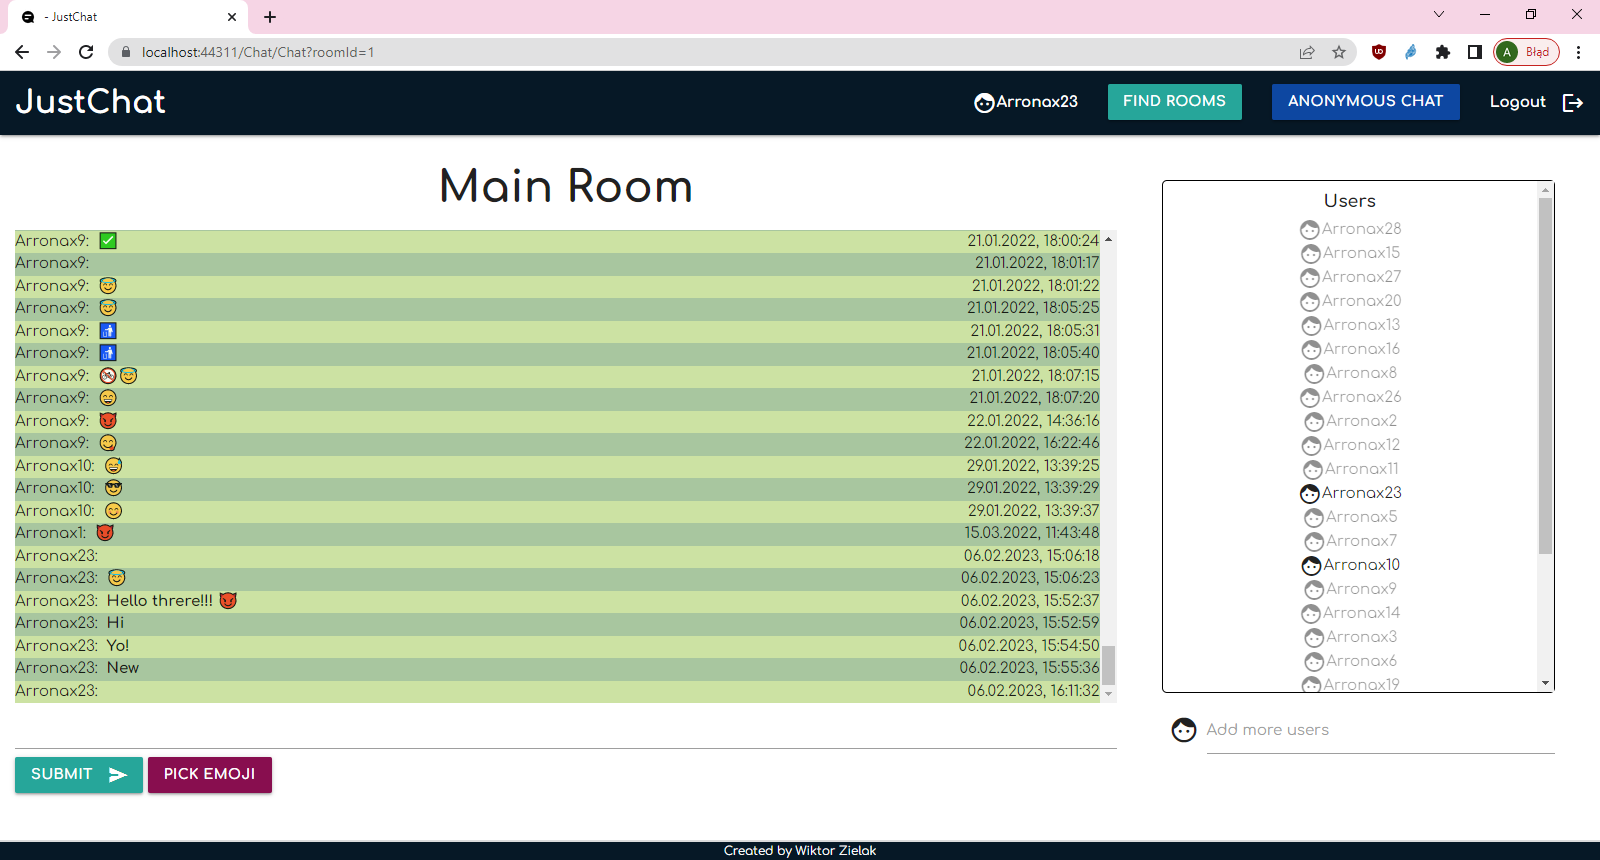
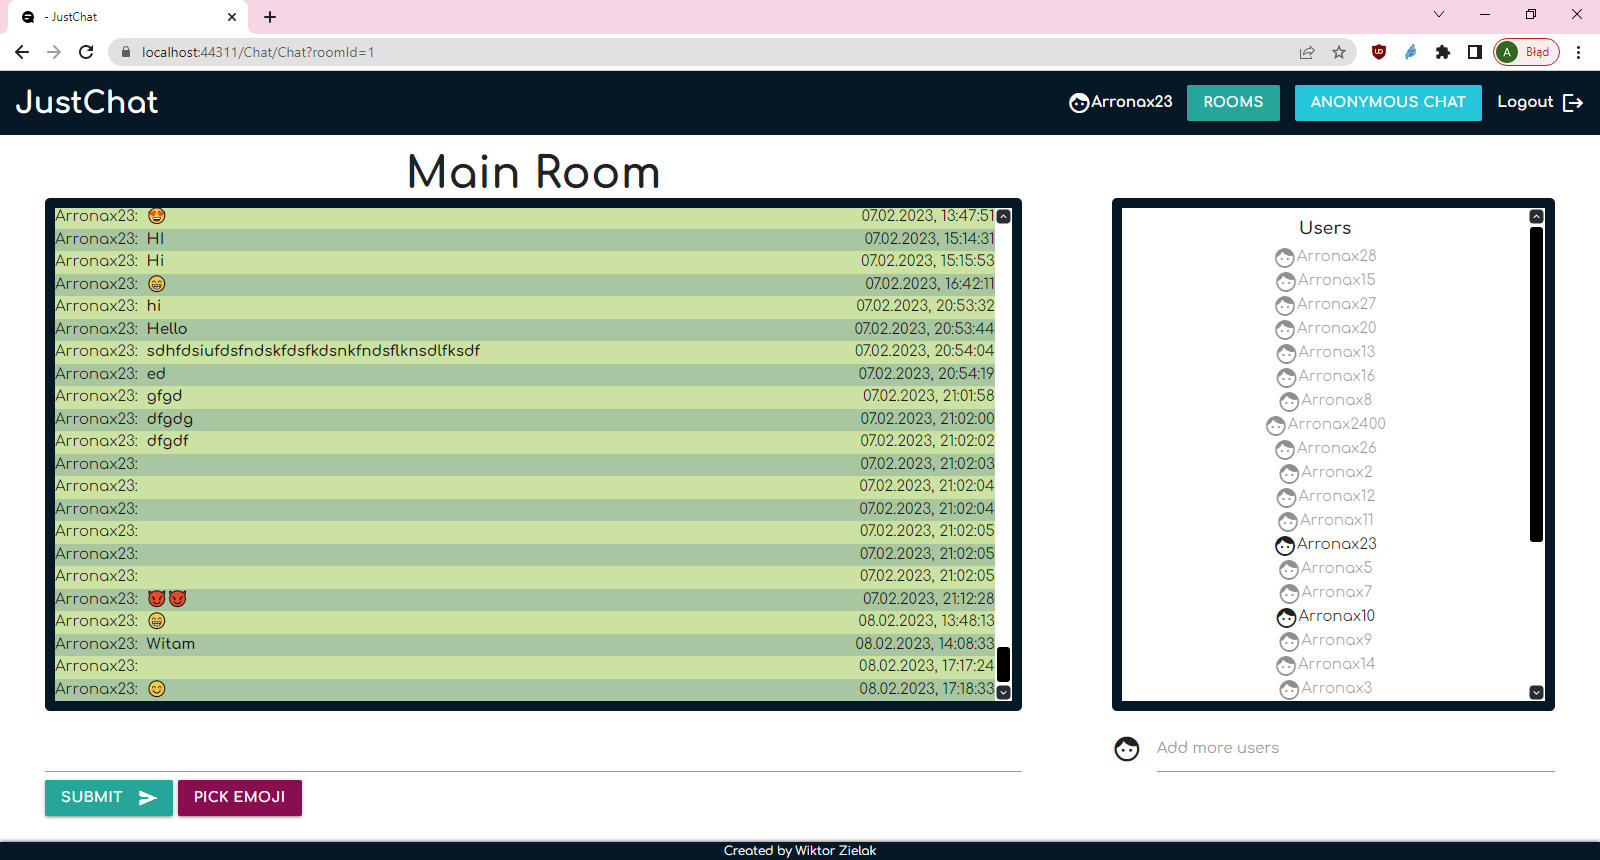
responsive navigation is working

diff --git a/JustChat/wwwroot/css/site.css b/JustChat/wwwroot/css/site.css
@@ -1,5 +1,6 @@
 body {
-    height: 100vh;
+    min-height: 100vh;
+    position: relative;
 }
 
 main {
@@ -51,6 +52,7 @@ p, span, .room-users {
 
 .auth-btn::after {
     position: absolute;
+    left: 0;
     top: 26px;
     content: "";
     background: white;
@@ -80,6 +82,11 @@ p, span, .room-users {
     justify-content: space-between
 }
 
+.hamburger {
+    display: none;
+}
+
+
 .nav .nav-list {
     display: flex;
     gap: 1rem;
@@ -100,14 +107,14 @@ p, span, .room-users {
 }
 
 .page-address {
+    position: absolute;
+    bottom: 0;
     background: #061826;
     font-family: 'Comfortaa', cursive;
     color: white;
     font-style: normal;
     font-size: .8rem;
     font-weight: 400;
-    position: absolute;
-    bottom: 0;
     width: 100%;
     height: 18px;
     text-align: center;
@@ -133,7 +140,8 @@ p, span, .room-users {
     margin: 0;
     height: auto;
     align-self: center;
-    margin: 0 3rem;
+    /*margin: 0 3rem;*/
+    margin: 1rem 3rem 0 3rem;
 }
 
 .chat-container {
@@ -162,13 +170,12 @@ p, span, .room-users {
 
 .chat-form {
     grid-area: three;
-    margin-right: 50px;
-    margin: 0 3rem;
+    margin: 1rem 3rem 0 3rem;
 }
 
 .invite-users {
     grid-area: four;
-    margin: 0 3rem;
+    margin: 1rem 3rem 0 3rem;
 }
 
 .room-users {
@@ -300,4 +307,123 @@ a.disabled {
     background: url('/arrow-down.svg');
     background-repeat: no-repeat;
     background-size: 100%;
+}
+
+.auth-btn-span-container{
+    display: inline-block;
+}
+
+.desktop-hide {
+    display: none;
+}
+
+@media (max-width: 730px) {
+    .btn {
+        height: 32.4px;
+    }
+    .rooms-mobile-nav {
+        display: flex;
+        flex-direction: column;
+        align-items: center;
+        gap: 10px;
+    }
+    .rooms-mobile-nav h4 {
+        font-size: 14px;
+        font-weight: 700;
+        color: white;
+        margin: 0;
+    }
+
+    .mobile-hide {
+        display: none;
+    }
+
+    .desktop-hide {
+        display: block;
+    }
+
+    .nav {
+        flex-direction: column;
+        height: auto;
+    }
+
+    .nav .nav-list {
+        flex-direction: column;
+        gap: unset;
+        background: #061826;
+        width: 100%;
+        margin-bottom: 0;
+    }
+
+    .nav .nav-list li {
+        text-align: center;
+        width: 100%;
+        border-top: 3px solid white;
+        padding: 10px 0;
+    }
+
+    .username, .logout {
+        justify-content: center;
+    }
+
+    .logo {
+        margin-left: unset;
+    }
+
+    main {
+        height: auto;
+    }
+
+    .hamburger {
+        display: flex;
+        top: 5px;
+        right: 5px;
+        flex-direction: column;
+        justify-content: space-around;
+        position: absolute;
+        height: 30px;
+        width: 30px;
+        cursor: pointer;
+    }
+
+    .bar {
+        background: white;
+        height: 5px;
+        border-radius: 2px;
+    }
+
+    .collapse {
+        display: none;
+    }
+
+    .nav-small {
+        height: 3rem;
+    }
+
+    .chat-header {
+        font-size: 1.5rem;
+    }
+
+    .chat-page {
+        display: flex;
+        flex-direction: column;
+    }
+
+    .chat-container {
+        height: 55vh;
+        margin: 1rem 1rem 0 1rem;
+    }
+
+    .users-container {
+        height: 20vh;
+        margin: 1rem 1rem 0 1rem;
+    }
+
+    .chat-form {
+        margin: 0 1rem 1rem 1rem;
+    }
+
+    .invite-users {
+        margin: 1rem;
+    }
 }

diff --git a/JustChat/wwwroot/js/handleHamburgerBtn.js b/JustChat/wwwroot/js/handleHamburgerBtn.js
@@ -1,0 +1,11 @@
+let handleHamburgerBtn = function () {
+    let hamburgerBtn = document.querySelector(".hamburger");
+    let navItems = document.querySelectorAll(".nav-item");
+    let nav = document.querySelector(".nav");
+    hamburgerBtn.addEventListener('click', function () {
+        nav.classList.toggle('nav-small');
+        navItems.forEach(function (item) {
+            item.classList.toggle('collapse');
+        })
+    });
+}
